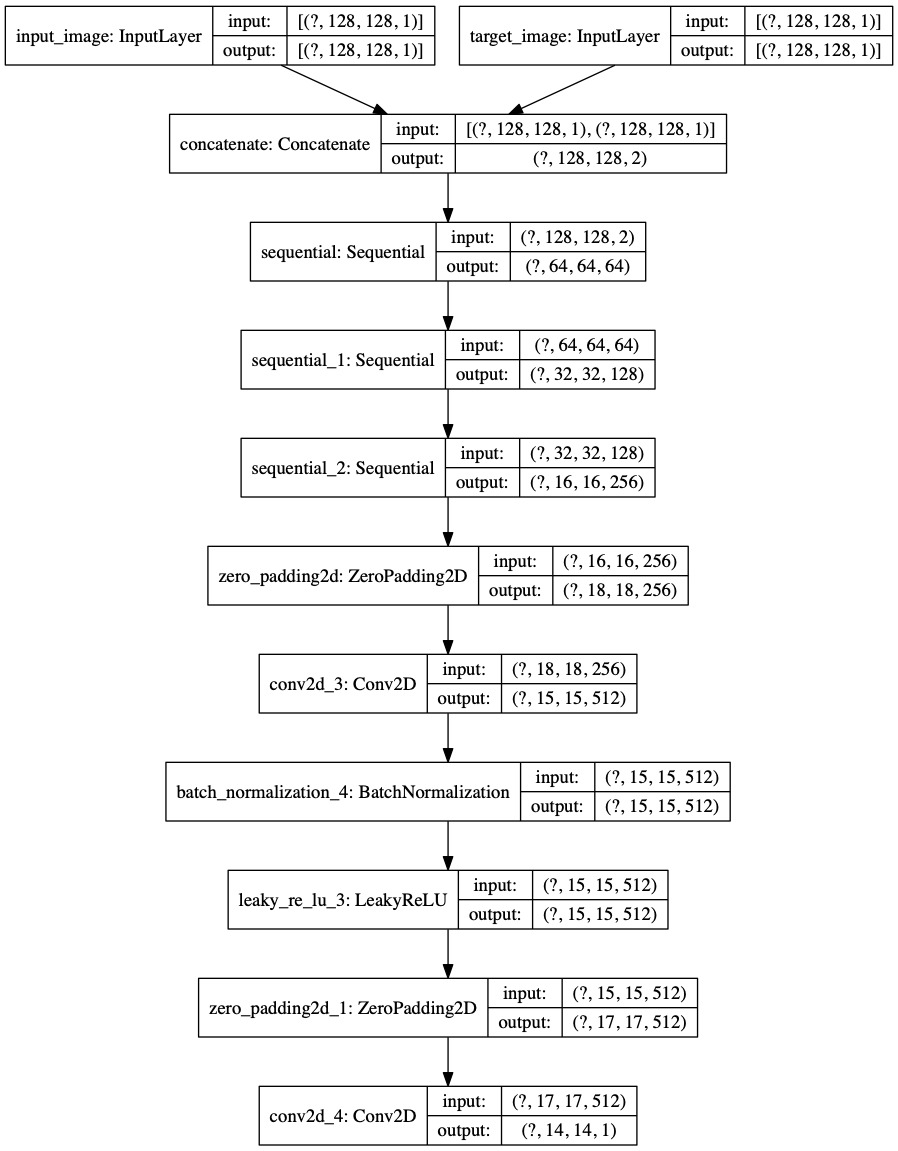
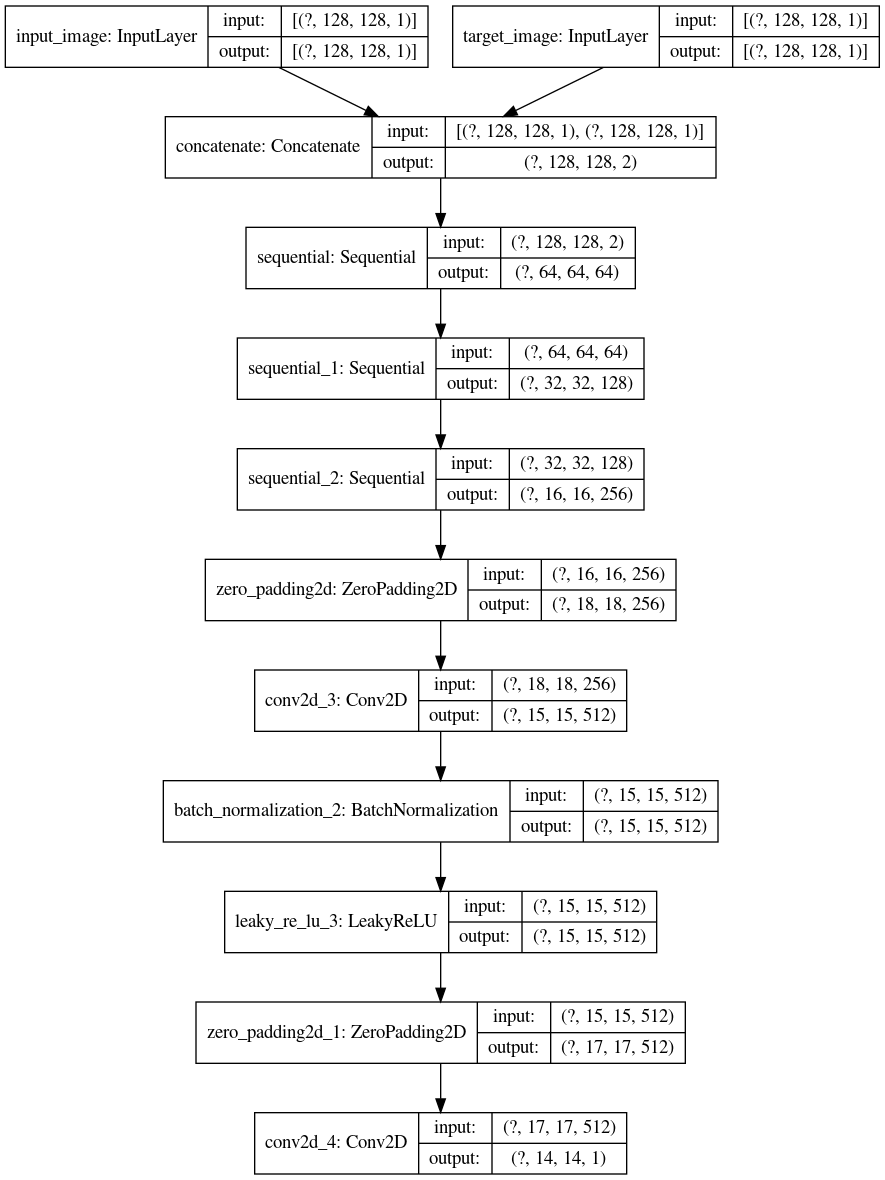
set symmetry

Changed region(s): [[0.1831, 0.0912, 0.8237, 1.0], [0.5186, 0.0, 1.0, 0.0608], [0.0, 0.0, 0.4881, 0.0608]]

diff --git a/model.py b/model.py
@@ -71,15 +71,15 @@ class Subpixel(tf.keras.layers.Conv2D):
     def _phase_shift(self, I):
         r = self.r
         bsize, a, b, c = I.get_shape().as_list()
-        bsize = tf.keras.backend.shape(I)[0] # Handling Dimension(None) type for undefined batch dim
-        X = tf.keras.backend.reshape(I, [bsize, a, b, tf.cast(c/(r*r), tf.int32), r, r]) # bsize, a, b, c/(r*r), r, r
+        bsize = tf.shape(I)[0] # Handling Dimension(None) type for undefined batch dim
+        X = tf.reshape(I, [bsize, a, b, tf.cast(c/(r*r), tf.int32), r, r]) # bsize, a, b, c/(r*r), r, r
         #X = tf.keras.permute_dimensions(X, (0, 1, 2, 5, 4, 3))  # bsize, a, b, r, r, c/(r*r)
         X = tf.transpose(X, perm=[0,1,2,5,4,3])
         #Keras backend does not support tf.split, so in future versions this could be nicer
         X = [X[:,i,:,:,:,:] for i in range(a)] # a, [bsize, b, r, r, c/(r*r)
-        X = tf.keras.backend.concatenate(X, 2)  # bsize, b, a*r, r, c/(r*r)
+        X = tf.keras.backend.concatenate(X, axis=2)  # bsize, b, a*r, r, c/(r*r)
         X = [X[:,i,:,:,:] for i in range(b)] # b, [bsize, r, r, c/(r*r)
-        X = tf.keras.backend.concatenate(X, 2)  # bsize, a*r, b*r, c/(r*r)
+        X = tf.keras.backend.concatenate(X, axis=2)  # bsize, a*r, b*r, c/(r*r)
         return X
 
     def call(self, inputs):
@@ -105,6 +105,23 @@ class Sum_R1M(tf.keras.layers.Layer):
     def call(self, input):
         return tf.reduce_sum(input, axis=-1, keepdims=True)
 
+class Symmetry_R1M(tf.keras.layers.Layer):
+    def __init__(self, name='SYMR1M'):
+        super(Symmetry_R1M, self).__init__(name=name)
+
+    def build(self, input_shape):
+        ones = tf.ones(shape=(input_shape[1], input_shape[2]), dtype='float32')
+        diag = tf.matrix_band_part(ones, 0, 0)*0.5
+        upper = tf.matrix_band_part(ones, 0, -1)
+
+        self.w = upper - diag
+        self.w = tf.expand_dims(self.w, 0)
+        self.w = tf.expand_dims(self.w, -1)
+
+    def call(self, input):
+        up = tf.multiply(input, self.w)
+        low = tf.transpose(up, perm=[0,2,1,3])
+        return up + low
 
 class Normal(tf.keras.layers.Layer):
     def __init__(self, input_dim, name='DW'):
@@ -112,9 +129,6 @@ class Normal(tf.keras.layers.Layer):
         w_init = tf.ones_initializer()
         self.w = tf.Variable(initial_value=w_init(
             shape=(1, input_dim, 1, 1), dtype='float32'), trainable=True)
-        '''d_init = tf.zeros_initializer()
-        self.d = tf.Variable(initial_value=d_init(
-            shape=(1, input_dim), dtype='float32'), trainable=True)'''
 
     def call(self, inputs):
         rowsr = tf.math.sqrt(tf.math.reduce_sum(
@@ -129,11 +143,11 @@ class Normal(tf.keras.layers.Layer):
 
         return tf.multiply(Div, M)
 
-class symmetry_constraints(tf.keras.constraints.Constraint):
+'''class symmetry_constraints(tf.keras.constraints.Constraint):
     def __call__(self, w): 
         #for conv2d the shape of kernel = [W, H, C, K] C:channels, K:output number of filters
         Tw = tf.transpose(w, perm=[1,0,2,3])
-        return (w + Tw)/2.0
+        return (w + Tw)/2.0'''
 
 def downsample(filters, size, apply_batchnorm=True):
     initializer = tf.random_normal_initializer(0., 0.02)
@@ -141,7 +155,6 @@ def downsample(filters, size, apply_batchnorm=True):
     result.add(
         tf.keras.layers.Conv2D(filters, size, strides=2, padding='same', 
                                 kernel_initializer=initializer, 
-                                kernel_constraint=symmetry_constraints(), 
                                 use_bias=False))
     if apply_batchnorm:
         result.add(tf.keras.layers.BatchNormalization())
@@ -190,23 +203,27 @@ def make_generator_model(len_low_size=16, scale=4):
     high_out = Normal(int(len_low_size*scale), name='out_high')(Sumh)'''
 
     Rech = Reconstruct_R1M(1024, name='rec_high')(WeiR1Ml)
-    paddings = tf.constant([[0,0],[1, 1], [1, 1], [0,0]])
-    Rech = tf.pad(Rech, paddings, "SYMMETRIC")
-    trans_1 = tf.keras.layers.Conv2D(filters=32, kernel_size=(3,3),
+
+    '''trans_1 = tf.keras.layers.Conv2D(filters=128, kernel_size=(1,1),
                                     strides=(1,1), padding='valid',
                                     data_format="channels_last",
-                                    kernel_constraint=symmetry_constraints(), 
+                                    kernel_initializer=tf.keras.initializers.RandomNormal(mean=0.01, stddev=0.1),
                                     activation='relu', use_bias=False, name='C2DT1')(Rech)
-    batchnorm_1 = tf.keras.layers.BatchNormalization()(trans_1)
-    trans_2 = Subpixel(filters= int(32), kernel_size=(5,5), r=4, 
-                        activation='relu', use_bias=False, padding='same',
-                        kernel_constraint=symmetry_constraints(), name='subpixel')(batchnorm_1)
-    batchnorm_2 = tf.keras.layers.BatchNormalization()(trans_2)
+    sym = Symmetry_R1M(name='SYM_1')(trans_1)
+    batchnorm_1 = tf.keras.layers.BatchNormalization()(sym)'''
+    trans_2 = Subpixel(filters= int(128), kernel_size=(3,3), r=2, 
+                        activation='relu', use_bias=False, padding='same', 
+                        kernel_initializer=tf.keras.initializers.RandomNormal(mean=0.01, stddev=0.1), name='subpixel_1')(Rech)
+    sym = Symmetry_R1M(name='SYM_2')(trans_2)
+    trans_3 = Subpixel(filters= int(128), kernel_size=(3,3), r=2, 
+                        activation='relu', use_bias=False, padding='same', 
+                        kernel_initializer=tf.keras.initializers.RandomNormal(mean=0.01, stddev=0.1), name='subpixel_2')(sym)
+    sym = Symmetry_R1M(name='SYM_3')(trans_3)
     Sumh = tf.keras.layers.Conv2D(filters=1, kernel_size=(1,1),
                                     strides=(1,1), padding='same',
                                     data_format="channels_last",
                                     kernel_constraint=tf.keras.constraints.NonNeg(),
-                                    activation='relu', use_bias=False, name='sum_high')(batchnorm_2)
+                                    activation='relu', use_bias=False, name='sum_high')(sym)
     high_out = Normal(int(len_low_size*scale), name='out_high')(Sumh)
 
     model = tf.keras.models.Model(inputs=[In], outputs=[low_out, high_out, up_o])
@@ -226,14 +243,12 @@ def make_discriminator_model(len_low_size=16, scale=4):
     zero_pad1 = tf.keras.layers.ZeroPadding2D()(down3)
     conv = tf.keras.layers.Conv2D(512, 4, strides=1,
                                   kernel_initializer=initializer,
-                                  kernel_constraint=symmetry_constraints(), 
                                   use_bias=False)(zero_pad1)
 
     batchnorm1 = tf.keras.layers.BatchNormalization()(conv)
     leaky_relu = tf.keras.layers.LeakyReLU()(batchnorm1)
     zero_pad2 = tf.keras.layers.ZeroPadding2D()(leaky_relu)
     last = tf.keras.layers.Conv2D(1, 4, strides=1,
-                                    kernel_constraint=symmetry_constraints(), 
                                     kernel_initializer=initializer)(zero_pad2)
     return tf.keras.Model(inputs=[inp, tar], outputs=last)
     #return tf.keras.Model(inputs=inp, outputs=last)
@@ -302,10 +317,11 @@ def train_step_generator(Gen, Dis, imgl, imgr, loss_filter, opts, train_logs):
         gen_high_v += Gen.get_layer('rec_high').trainable_variables
         #gen_high_v += Gen.get_layer('C2DT0').trainable_variables
         #gen_high_v += Gen.get_layer('batch_normalization').trainable_variables
-        gen_high_v += Gen.get_layer('C2DT1').trainable_variables
-        gen_high_v += Gen.get_layer('batch_normalization').trainable_variables
-        gen_high_v += Gen.get_layer('subpixel').trainable_variables
-        gen_high_v += Gen.get_layer('batch_normalization_1').trainable_variables
+        #gen_high_v += Gen.get_layer('C2DT1').trainable_variables
+        #gen_high_v += Gen.get_layer('batch_normalization').trainable_variables
+        gen_high_v += Gen.get_layer('subpixel_1').trainable_variables
+        gen_high_v += Gen.get_layer('subpixel_2').trainable_variables
+        #gen_high_v += Gen.get_layer('batch_normalization_1').trainable_variables
         gen_high_v += Gen.get_layer('sum_high').trainable_variables
         gen_high_v += Gen.get_layer('out_high').trainable_variables
         gen_loss_high_0 = generator_mse_loss(fake_hic_h, imgr_filter)
@@ -404,7 +420,7 @@ def train(gen, dis, dataset, epochs, len_low_size, scale, test_dataset=None):
                                 tf.dtypes.cast(low_m, tf.float32), tf.dtypes.cast(high_m, tf.float32),
                                 [loss_filter_low, loss_filter_high],
                                 opts, logs)
-            if((epoch+1) % 2):
+            if(epoch > 70 and (epoch%5==1)):
                 train_step_discriminator(gen, dis, 
                                 tf.dtypes.cast(low_m, tf.float32), tf.dtypes.cast(high_m, tf.float32),
                                 [loss_filter_low, loss_filter_high],

diff --git a/train.py b/train.py
@@ -105,8 +105,8 @@ tf.keras.utils.plot_model(Gen, to_file='G.png', show_shapes=True)
 print(Dis.summary())
 tf.keras.utils.plot_model(Dis, to_file='D.png', show_shapes=True)
 current_time = datetime.datetime.now().strftime("%Y%m%d-%H%M%S")
-Gen.save('./saved_model/'+current_time+'/gen_model') 
-Dis.save('./saved_model/'+current_time+'dis_model')
+#Gen.save('./saved_model/'+current_time+'/gen_model') 
+#Dis.save('./saved_model/'+current_time+'dis_model')
 model.train(Gen, Dis, train_data, EPOCHS, len_low_size, scale, test_data)
 
 Gen.save('./saved_model/'+current_time+'/gen_model') 
